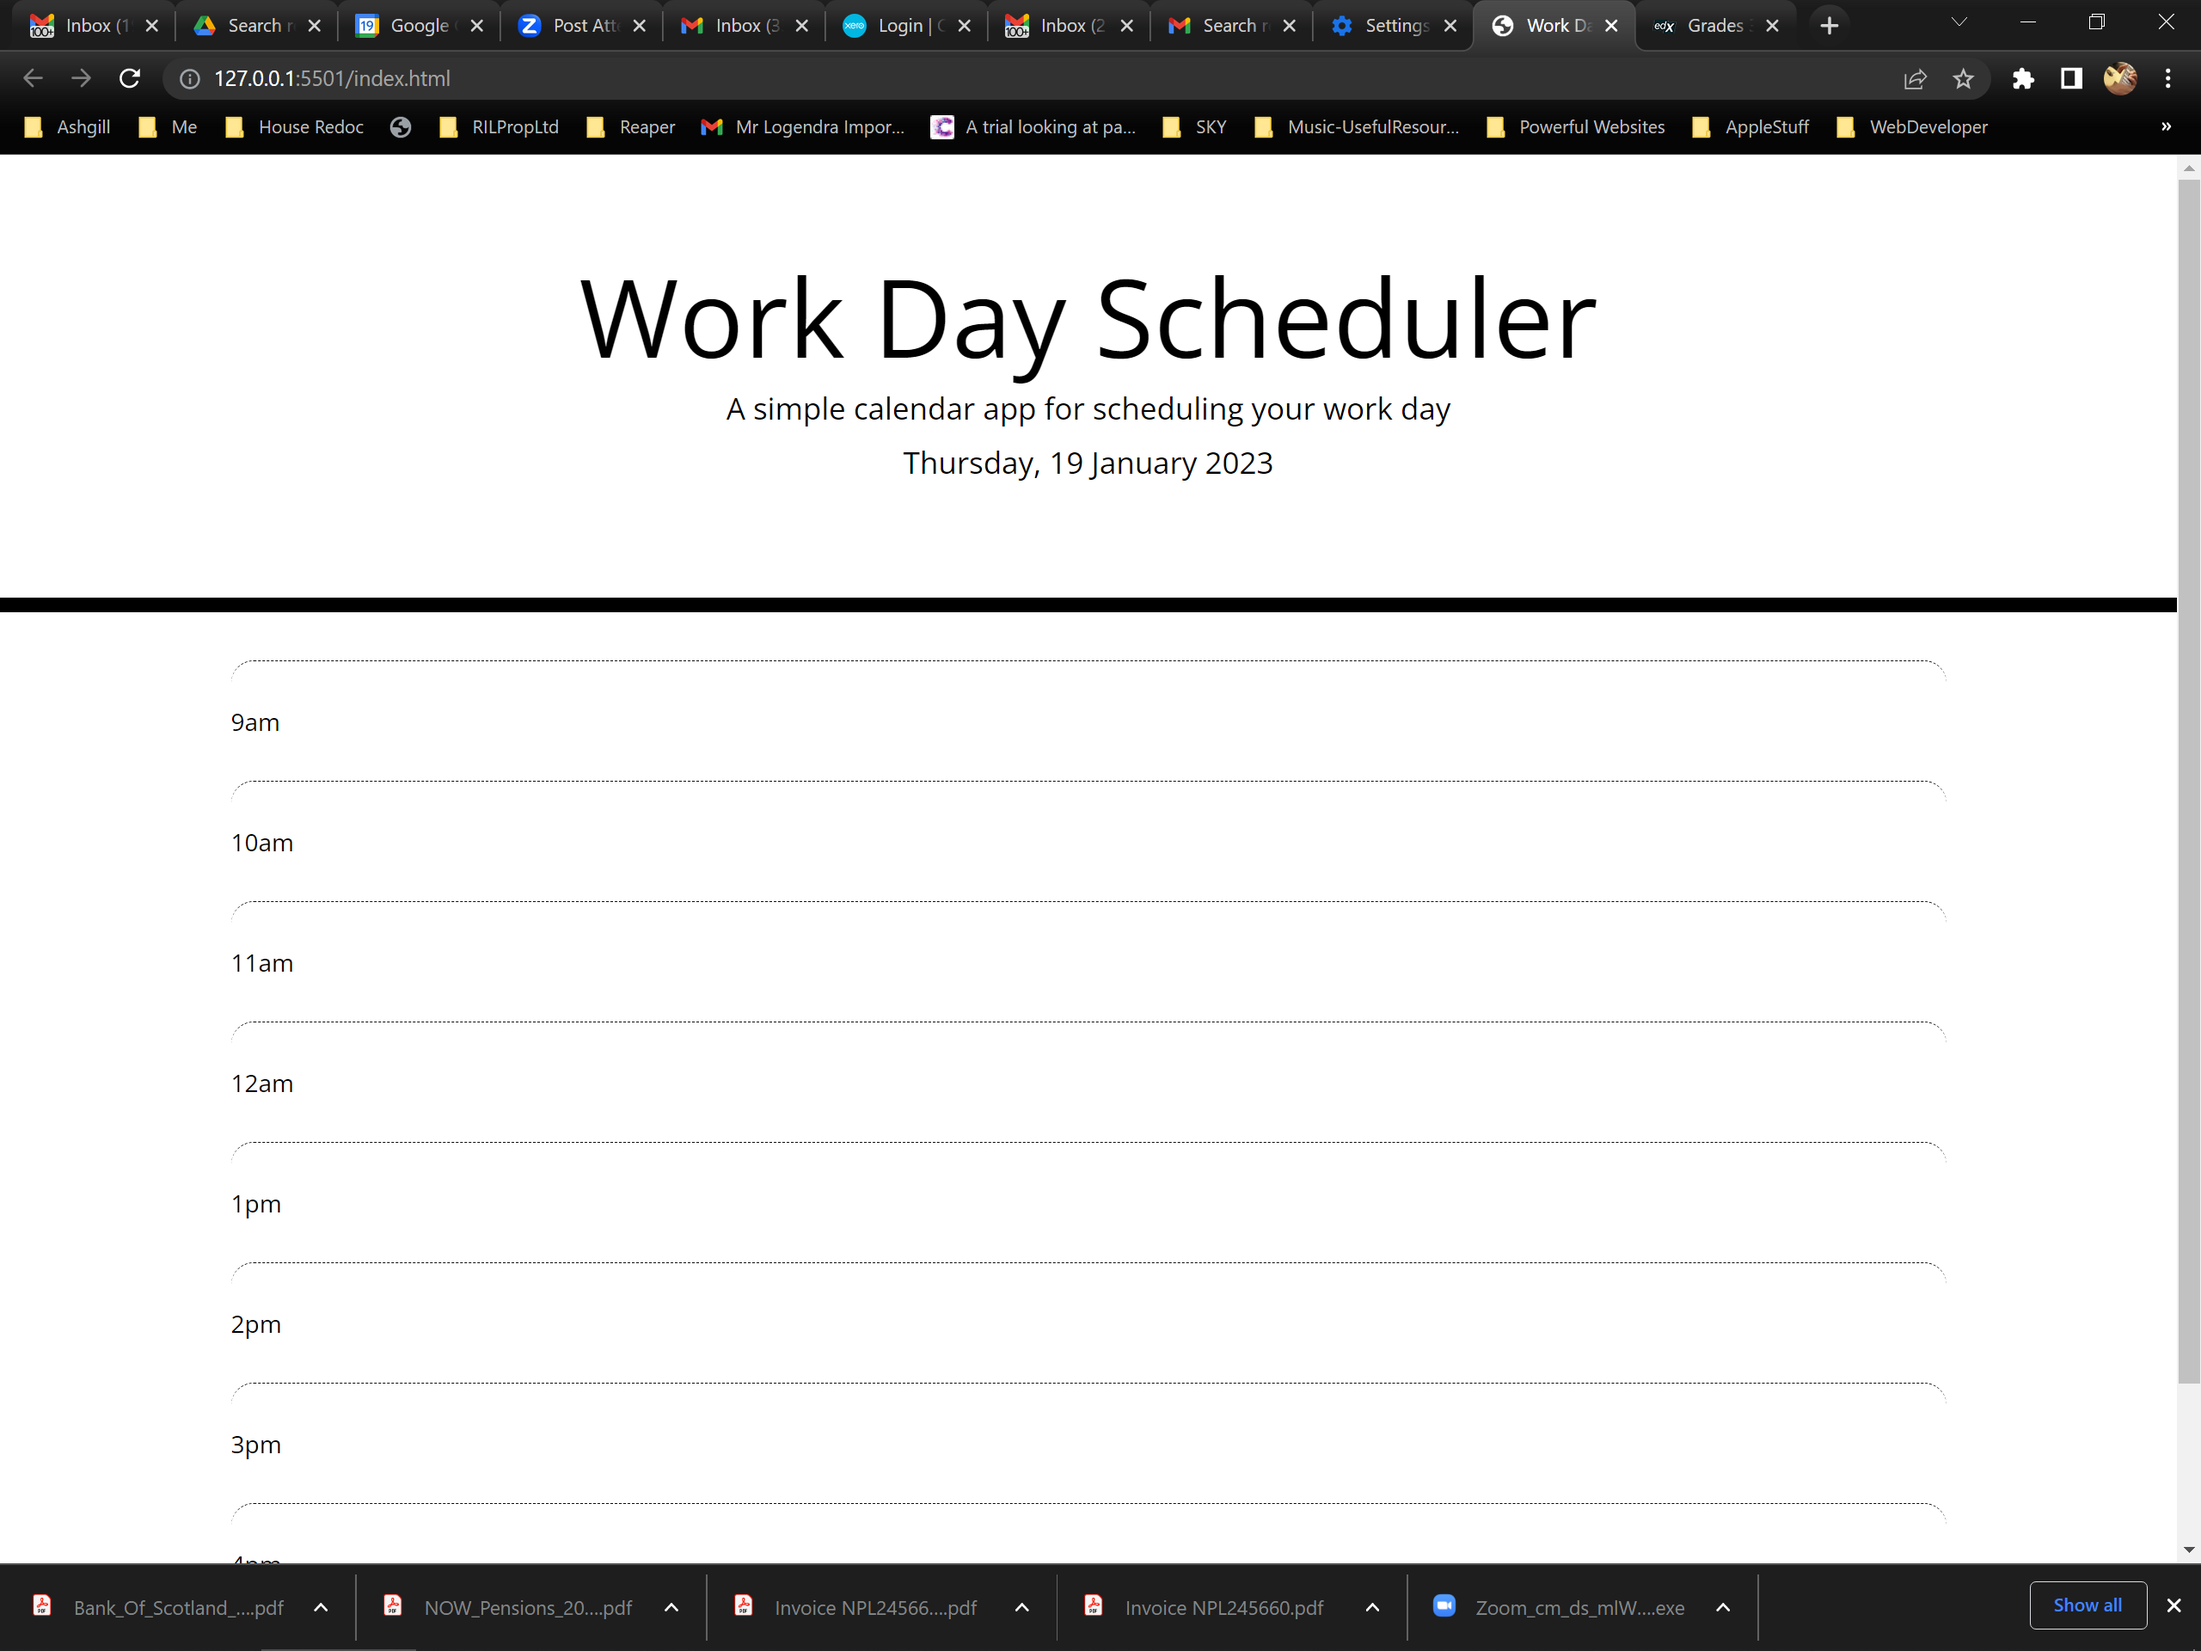
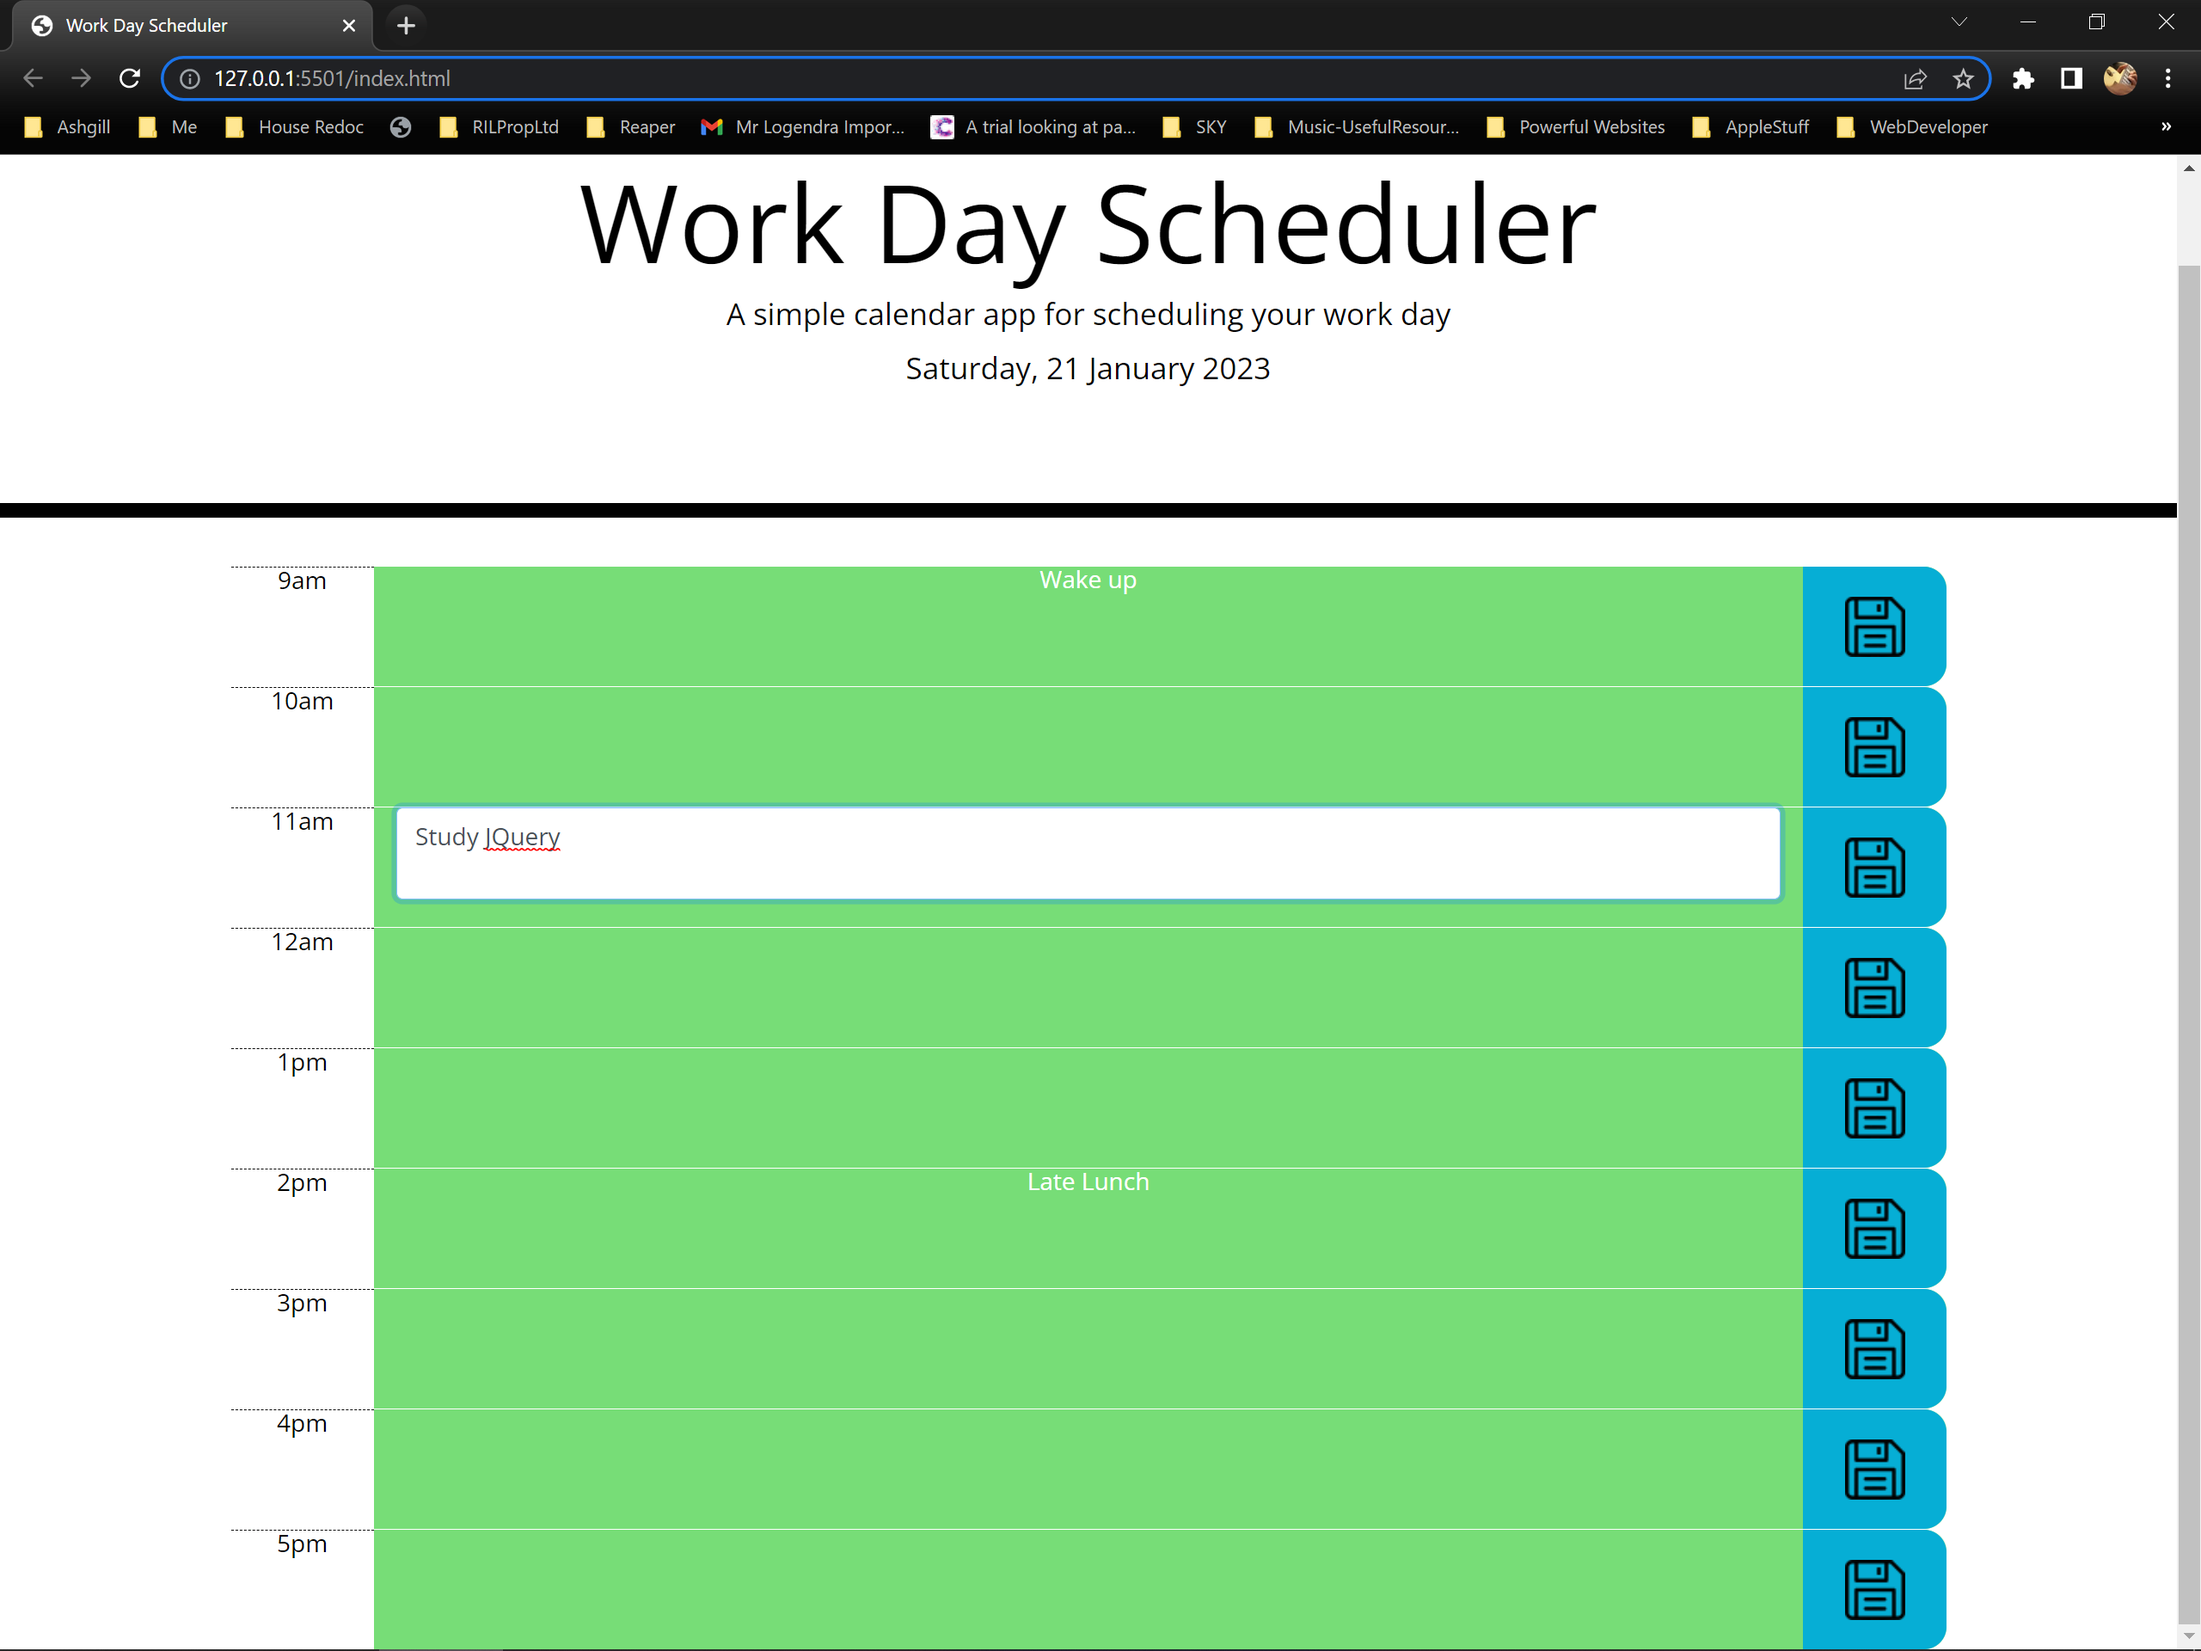
updated screenshot, added save png

diff --git a/js/planner.js b/js/planner.js
@@ -138,7 +138,7 @@ function fncDisplayTimeBlocksForDay() {
     let newSave = $("<button>");
     newSave.addClass("col-1 saveBtn");
     newSave.attr("data-save", index);
-    newSave.text("SAVE");
+    //newSave.text("SAVE");
     
 
     newRow.append(newSave);

diff --git a/css/style.css b/css/style.css
@@ -71,6 +71,7 @@ textarea {
   background-image: url(../images//saveBtn.png);   
   background-repeat: no-repeat; 
   border: none;
+  background-position: center center; 
 }
 
 .saveBtn i:hover {
